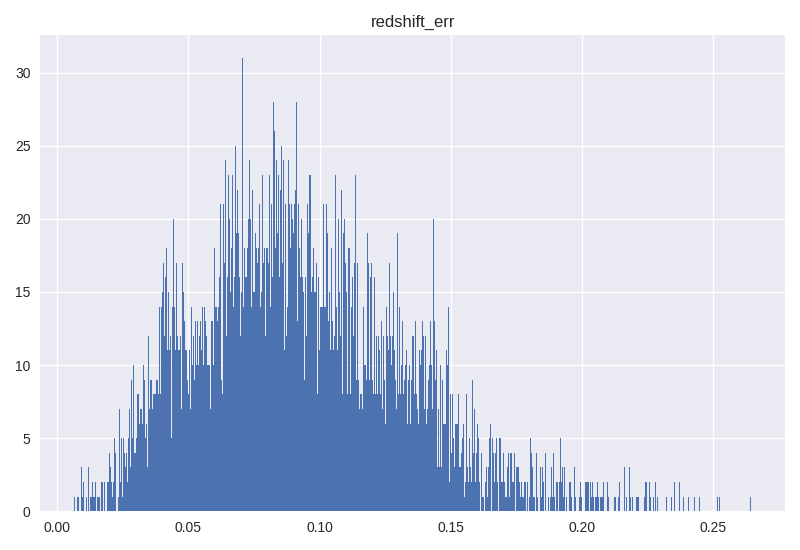
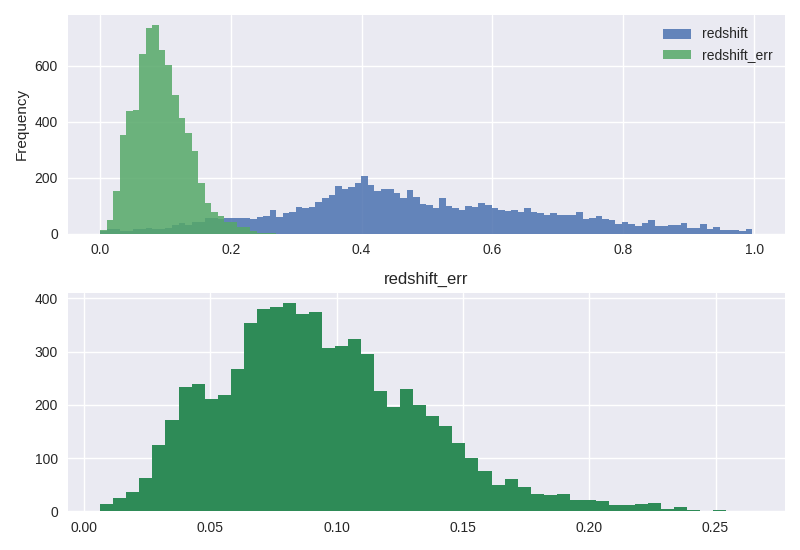
first

diff --git a/teste.py b/teste.py
@@ -35,6 +35,10 @@ from sklearn.cluster import DBSCAN
 from sklearn.metrics.pairwise import pairwise_distances
 import matplotlib.pyplot as plt
 import astropy.units as u
+import time
+from scipy.spatial.distance import squareform
+from scipy.spatial.distance import pdist
+
 
 
 # importing data
@@ -46,6 +50,13 @@ quasars_test2 = pd.read_csv("sdss_z_test.csv", dtype={'bestObjId': int})
 def distance(data, i, j):
     a = SkyCoord(data.loc[i, 'ra'], data.loc[i, 'dec'], unit="deg")
     b = SkyCoord(data.loc[j, 'ra'], data.loc[j, 'dec'], unit="deg")
+    return a.separation(b).arcsecond
+
+
+# determines the separation between objs u and v
+def metric_func2(u, v):
+    a = SkyCoord(u['ra'], u['dec'], unit="deg")
+    b = SkyCoord(v['ra'], v['dec'], unit="deg")
     return a.separation(b).arcsecond
 
 
@@ -81,30 +92,22 @@ def z_groups(dataf):
 
 
 
-def zgrous2(dataf):
-    dataf = dataf[dataf.redshift != -9999.0]
-    sorted_df = dataf.sort_values(by='redshift')
+#def zgroups2(dataf):
+#    dataf = dataf[dataf.redshift != -9999.0]
+#    sorted_df = dataf.sort_values(by='redshift')
 
     ###### remove NANs
-    df = sorted_df.dropna(subset=['redshift'])
+#    df = sorted_df.dropna(subset=['redshift'])
 
-    all_groups_df = df.loc[abs(df['redshift'] - df['redshift'][0]) <= 0.25]  # print(df['redshift'][0] ??????
+ #   all_groups_df = df.loc[abs(df['redshift'] - df['redshift'][0]) <= 0.25]  # print(df['redshift'][0] ??????
 
-    for row in dataf.itertuples(index=True, name='Pandas'):
-        group_df = df.loc[abs(df['redshift'] - getattr(row, 'redshift')) <= 0.25]
-        #group_df['center'] = getattr(row, 'objID')
-        pd.concat([all_groups_df, group_df], names=['', getattr(row, 'objID')])
-
-
-    print(all_groups_df)
-
-zgrous2(quasars_test2)
-
-
-
-
-
-
+#    for row in dataf.itertuples(index=True, name='Pandas'):
+#        group_df = df.loc[abs(df['redshift'] - getattr(row, 'redshift')) <= 0.25]
+#        group_df['center'] = getattr(row, 'objID')
+#        #pd.concat([all_groups_df, group_df], names=['', getattr(row, 'objID')])
+#        pd.concat([all_groups_df, group_df]
+#
+#    return all_groups_df
 
 
 
@@ -119,6 +122,17 @@ def metric_func(array1, array2):
     return a.separation(b).arcsecond
 
 
+def metric_func3(u, v):
+
+    cos = np.cos(90-u[1])*np.cos(90-v[1]) + np.sin(90-u[1])*np.sin(90-v[1])*np.cos(u[0]-v[0])
+    sep = np.arccos(cos)
+
+    #a = SkyCoord(u[0], u[1], unit="deg")
+    #b = SkyCoord(v[0], v[1], unit="deg")
+    #return a.separation(b).arcsecond
+    return sep
+
+
 # creates the distance matrix
 def D_matrix(dataf, f_metric):
     groups = z_groups(dataf)
@@ -129,6 +143,89 @@ def D_matrix(dataf, f_metric):
         all_matrices.append(d_matrix)  # adds group's matrix to list of matrices
     d_matrices = np.array(all_matrices)
     return d_matrices  # array with all matrices
+
+
+def D_matrix2(dataf, f_metric):
+
+    dataf = dataf[dataf.redshift != -9999.0]
+    #sorted_df = dataf.sort_values(by='redshift')
+
+    ###### remove NANs
+    df = dataf.dropna(subset=['redshift'])
+    t = 1
+    d=1
+    all_matrices = []
+    for row in df.itertuples(index=True, name='Pandas'):
+        group_df = df.loc[abs(df['redshift'] - getattr(row, 'redshift')) <= 0.25]  # z group with center i
+        print('group' + str(t))
+        t += 1
+        print(str(group_df.shape))
+
+
+        d_matrix = pairwise_distances(group_df[['ra', 'dec']].values, metric=f_metric)  # distance matrix for each z group
+        print('d matrix' + str(d))
+        d += 1
+        all_matrices.append(d_matrix)  # adds group's matrix to list of matrices
+
+    d_matrices = np.array(all_matrices)
+    return d_matrices  # array with all matrices
+
+
+def D_matrix3(dataf, f_metric):
+
+    dataf = dataf[dataf.redshift != -9999.0]
+    #sorted_df = dataf.sort_values(by='redshift')
+
+    ###### remove NANs
+    df = dataf.dropna(subset=['redshift'])
+    t = 1
+    d=1
+    all_matrices = []
+    for row in df.itertuples(index=True, name='Pandas'):
+        group_df = df.loc[abs(df['redshift'] - getattr(row, 'redshift')) <= 0.25]  # z group with center i
+        print('group' + str(t))
+        t += 1
+        print(str(group_df.shape))
+
+        d_array = pdist(group_df[['ra', 'dec']], f_metric)
+        d_matrix = squareform(d_array)
+
+        print('d matrix' + str(d))
+        d += 1
+        all_matrices.append(d_matrix)  # adds group's matrix to list of matrices
+
+    d_matrices = np.array(all_matrices)
+    return d_matrices  # array with all matrices
+
+
+def D_matrix3(dataf, f_metric):
+
+    dataf = dataf[dataf.redshift != -9999.0]
+    sorted_df = dataf.sort_values(by='redshift')
+
+    ###### remove NANs
+    df = sorted_df.dropna(subset=['redshift'])
+
+    all_matrices = []
+    for row in df.itertuples(index=True, name='Pandas'):
+        for row2 in df.itertuples():
+            if abs(getattr(row, 'redshift') - getattr(row2, 'redshift'))<=abs(getattr(row, 'redshift_err') + getattr(row2, 'redshift_err')):
+                pass
+            else:
+                sorted_df = sorted_df[:]
+
+
+        d_array = pdist(group_df[['ra', 'dec']], f_metric)
+        d_matrix = squareform(d_array)
+
+        print('d matrix' + str(d))
+        d += 1
+        all_matrices.append(d_matrix)  # adds group's matrix to list of matrices
+
+    d_matrices = np.array(all_matrices)
+    return d_matrices  # array with all matrices
+
+
 
 
 # applies dbscan to the distance matrix
@@ -146,9 +243,20 @@ def dbscan(d_matrix, eps, min_samples):
     print('Estimated number of noise points: %d' % n_noise_)
 
 
-#a = D_matrix(quasars_test, metric_func)
-#for x in a:
-#    dbscan(x, 5, 3)
+start = time.time()
+
+a = D_matrix3(quasars_test2, metric_func3)
+cont = 0
+for x in a:
+    dbscan(x, 5, 3)
+    print(cont)
+    cont+=1
+
+end = time.time()
+time = end - start
+print(time)
+
+
 
 
 # Aitoff projection of quasars

diff --git a/redshift.py b/redshift.py
@@ -15,18 +15,17 @@ def hist_z(data):
     correct_df = data[data.redshift != -9999.0]
     plt.style.use('seaborn')
     plt.figure()
-    plt.subplot(2, 1, 1)
-    z = correct_df.hist(column="redshift", bins=1000)
-    plt.subplot(2, 1, 2)
-    zerr = correct_df.hist(column="redshift_err", bins=1000)
 
-#    hist = np.histogram(correct_df["redshift"], bins=100)
- #   print(hist[1])
+    fig, axs = plt.subplots(2, 1)
+    correct_df[['redshift', 'redshift_err']].plot(ax=axs[0], kind='hist', bins=100, alpha=0.85)  # or 'kde'
+
+    correct_df.hist(ax=axs[1], column="redshift_err", bins=50, color='seagreen')
+
     plt.tight_layout()
     plt.savefig("test.png")
     return None
 
 
 hist_z(dataframe)
-
+hist_z()
 #end = time.ti
